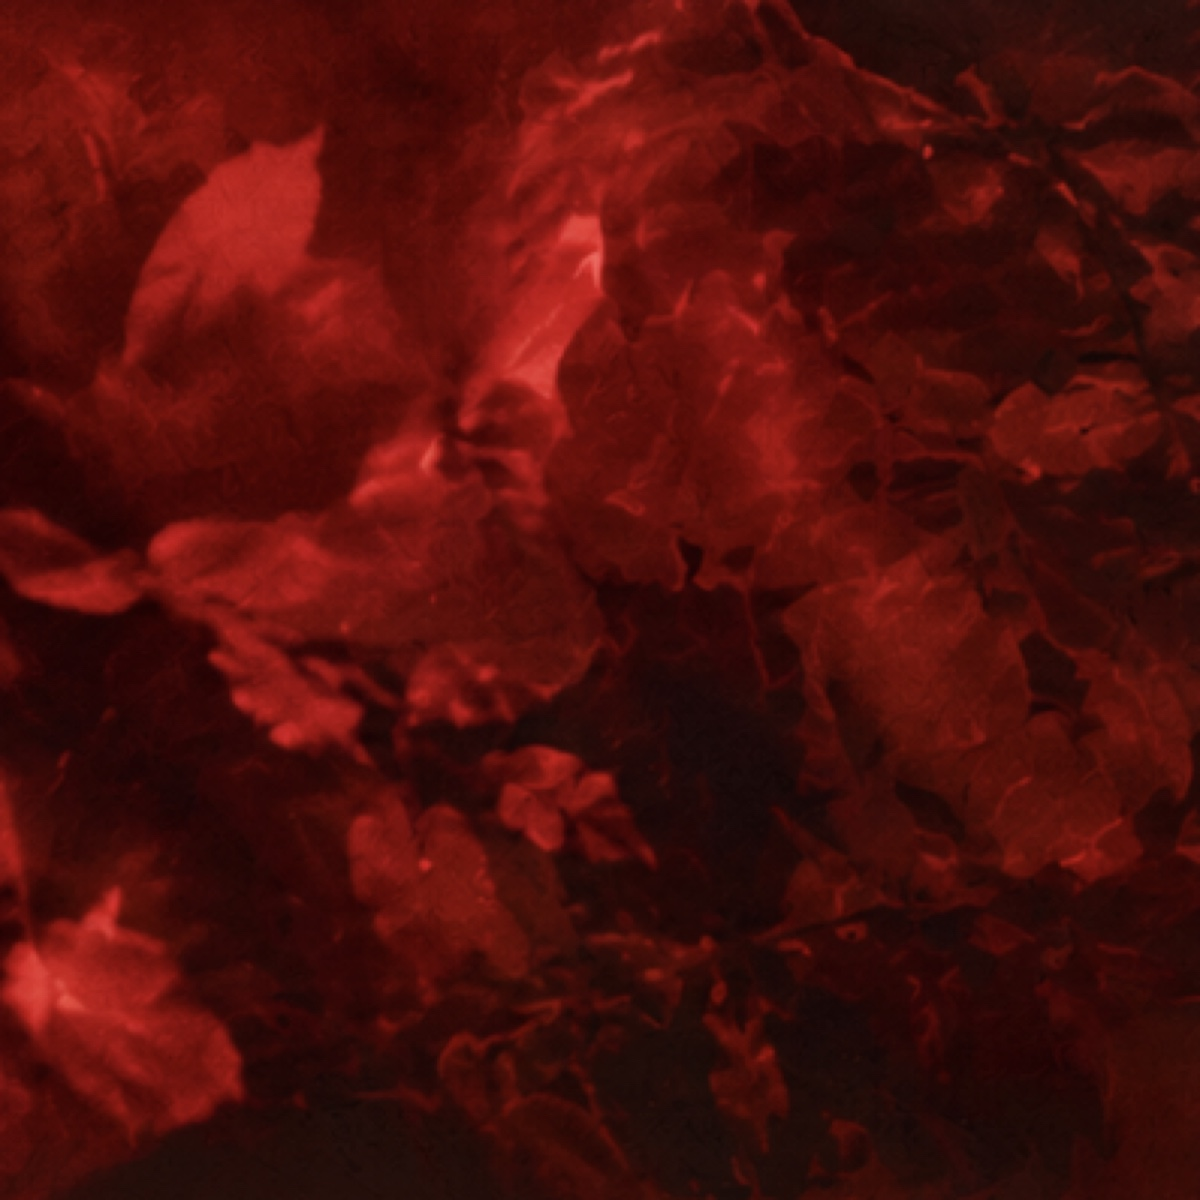
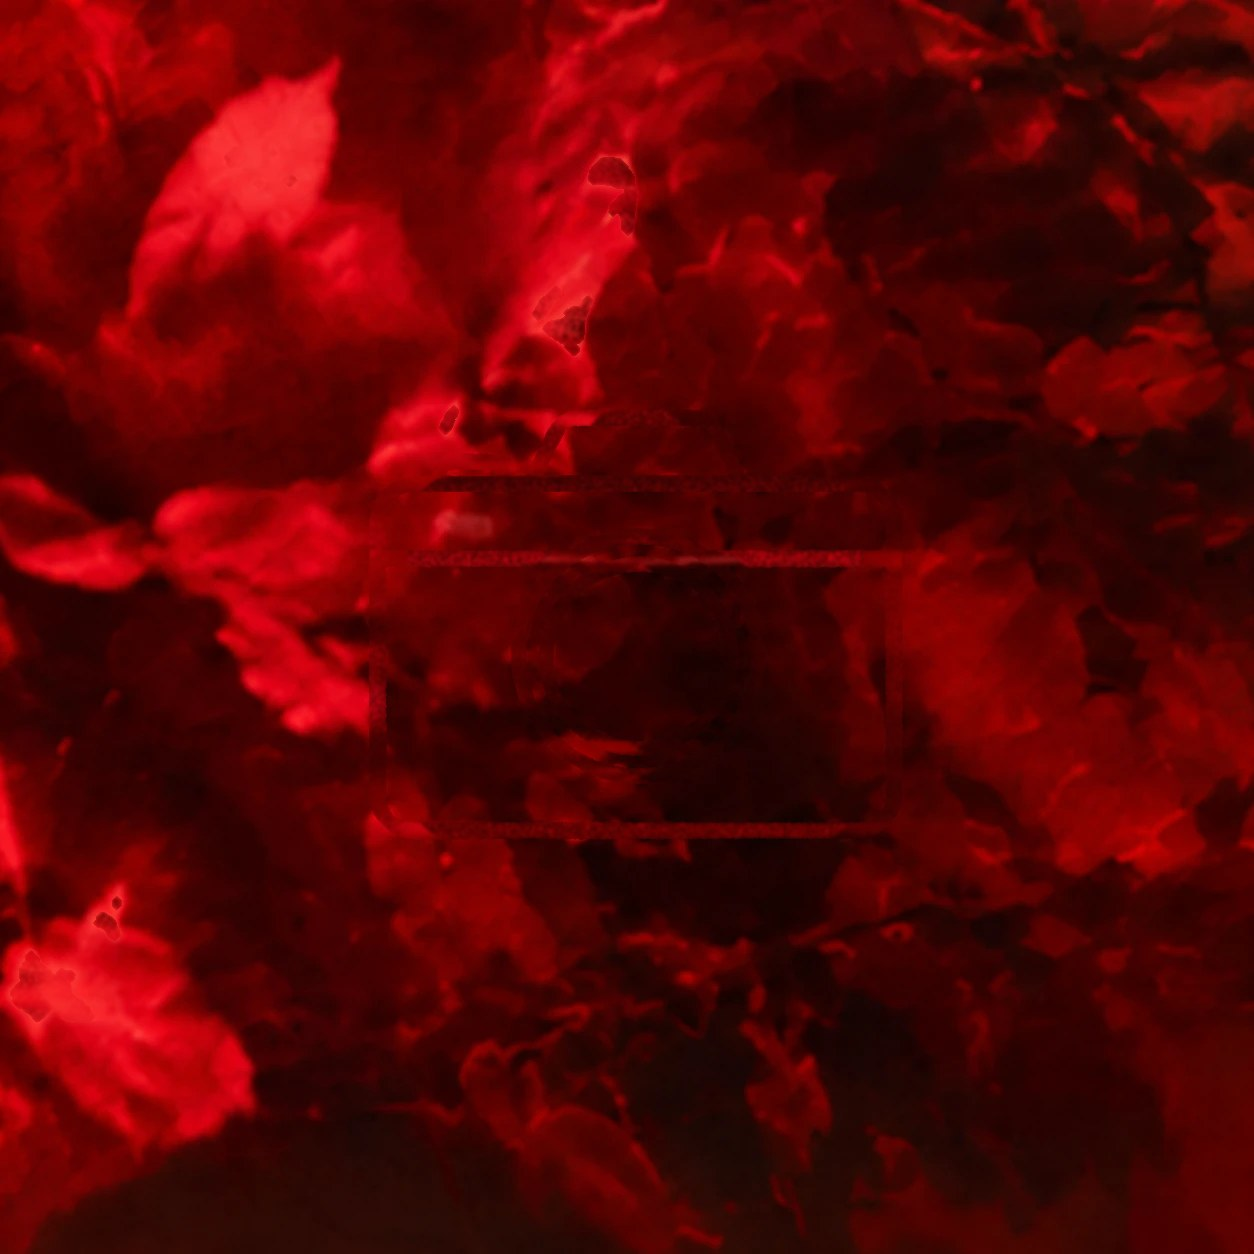
personal projects tile: swap in the new red camera photograph and return to raster split
the earlier SVG camera is removed; the new source is split the same way as the other three tiles (transparent icon PNG overlay + inpainted botanical jpg), so all four tiles now share the same architecture, chalky look, and hover behavior.

also dropped the unused .portfolio__cat-icon--svg CSS variant.

diff --git a/portfolio.html b/portfolio.html
@@ -120,36 +120,7 @@
             </div>
             <div class="portfolio__cat-image">
               <img src="/category-personal.jpg" alt="" loading="lazy" width="1200" height="1200">
-              <div class="portfolio__cat-icon portfolio__cat-icon--svg" aria-hidden="true">
-                <svg viewBox="0 0 100 100" fill="none" stroke="currentColor" stroke-width="1.2" stroke-linecap="round" stroke-linejoin="round">
-                  <defs>
-                    <!-- Chalk-on-paper filter: fractal noise displaces the stroke
-                         edges just enough to break the vector-perfect outline,
-                         then a slight alpha reduction gives the "chalky" look.
-                         Scoped to this SVG only; not a CSS blur. -->
-                    <filter id="camera-chalk" x="-4%" y="-4%" width="108%" height="108%">
-                      <feTurbulence type="fractalNoise" baseFrequency="1.4" numOctaves="2" seed="7" result="noise"/>
-                      <feDisplacementMap in="SourceGraphic" in2="noise" scale="0.35"/>
-                      <feComponentTransfer>
-                        <feFuncA type="linear" slope="0.92"/>
-                      </feComponentTransfer>
-                    </filter>
-                  </defs>
-                  <g filter="url(#camera-chalk)">
-                    <!-- Wide trapezoidal viewfinder on top -->
-                    <path d="M34 30 L40 20 L60 20 L66 30"/>
-                    <!-- Wide camera body, horizontally oriented, soft rounded corners -->
-                    <rect x="10" y="30" width="80" height="52" rx="4"/>
-                    <!-- Thin horizontal line across the upper section -->
-                    <line x1="10" y1="42" x2="90" y2="42"/>
-                    <!-- Small shutter-button detail on the upper left -->
-                    <rect x="17" y="35" width="7" height="3" rx="0.6"/>
-                    <!-- Large centered lens: two concentric rings -->
-                    <circle cx="50" cy="60" r="15"/>
-                    <circle cx="50" cy="60" r="9.5"/>
-                  </g>
-                </svg>
-              </div>
+              <img src="/category-personal-icon.png" alt="" aria-hidden="true" class="portfolio__cat-icon" loading="lazy">
               <div class="portfolio__cat-overlay">
                 <p class="portfolio__cat-desc">Experiments and side work. In preparation.</p>
               </div>

diff --git a/styles.css b/styles.css
@@ -2329,19 +2329,6 @@ em { font-style: italic; }
   transition: opacity 500ms var(--ease-out-quart);
 }
 
-/* SVG-rendered variant. Centered and sized to match the raster icons.
-   No blur, no drop-shadow — the SVG renders crisply; softness comes
-   only from the warm off-white stroke color and thin stroke width. */
-.portfolio__cat-image .portfolio__cat-icon--svg {
-  display: flex;
-  align-items: center;
-  justify-content: center;
-  color: #EDE2CB;
-}
-.portfolio__cat-image .portfolio__cat-icon--svg svg {
-  width: 54%;
-  height: 54%;
-}
 
 .portfolio__cat-tile:hover .portfolio__cat-image .portfolio__cat-icon,
 .portfolio__cat-tile:focus-visible .portfolio__cat-image .portfolio__cat-icon {
